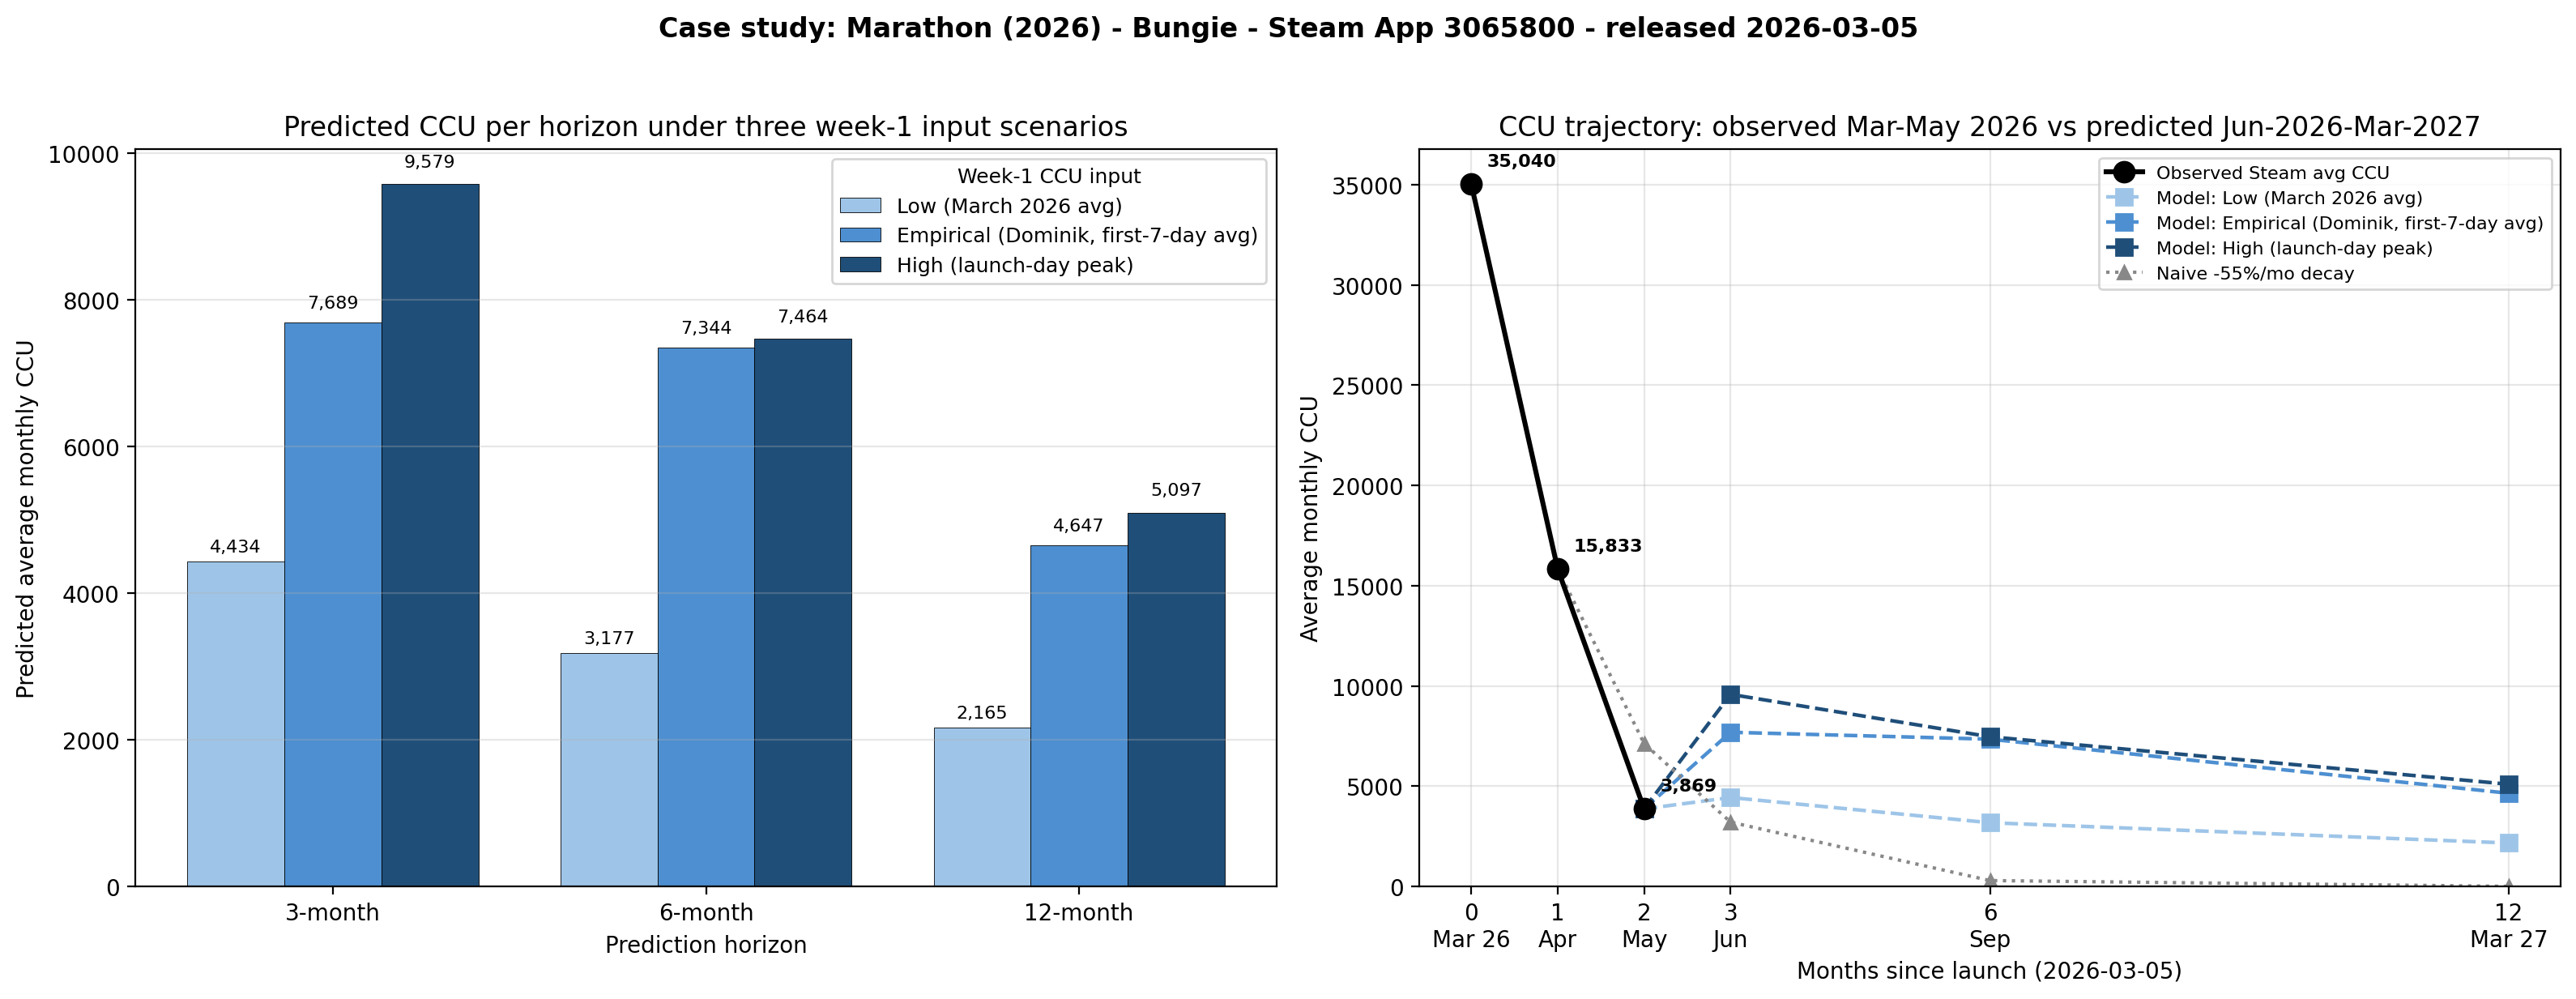
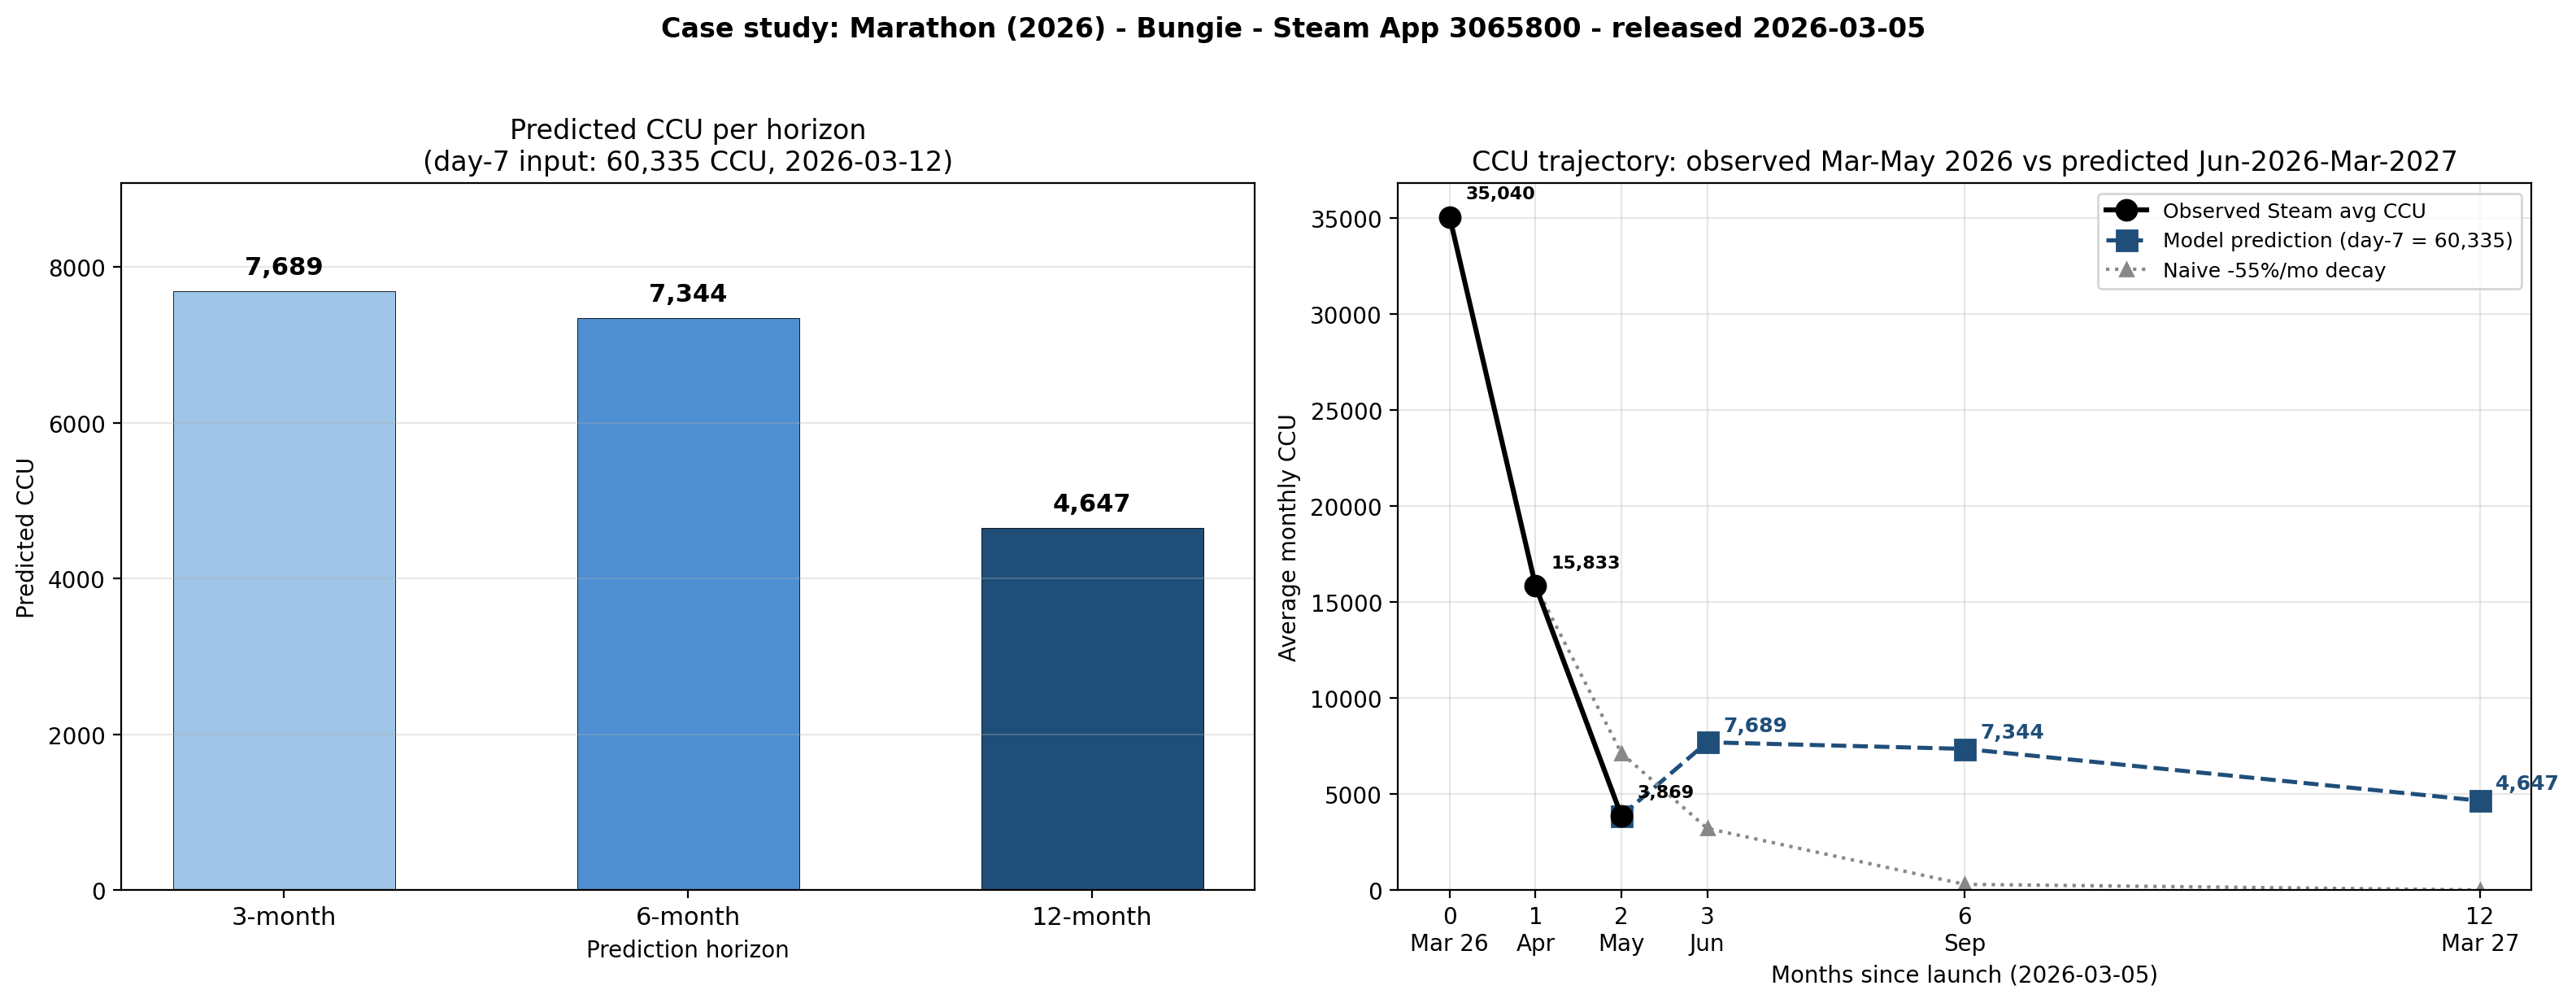
refactor(marathon): single day-7 input -> three horizon predictions
Per project decision the Marathon case study no longer uses the Low /
Empirical / High sensitivity bracket. The case study now reports a
single week-1 input — the exact value of the players_7days_after_release
column for Marathon (60,335 CCU on 2026-03-12, the second week of March,
seven days after the 2026-03-05 launch) — and three horizon predictions
at 3, 6 and 12 months.

Changes:
  - predict_marathon.py: removed LOW_WEEK1 / HIGH_WEEK1 constants and
    the scenarios list. main() now trains GBR per horizon and predicts
    once per horizon using the single day-7 input from the CSV.
  - render_figure: simplified to single-input layout. Left panel: three
    bars (one per horizon) labelled with the prediction values and the
    day-7 input date. Right panel: observed Mar-May trajectory + three
    predicted points at month 3/6/12 + naive -55%/mo decay baseline.
  - README.md: removed Low/High scenarios table, added an "Input"
    section describing the single day-7 value.

Headline numbers (day-7 input = 60,335 CCU):
   3-month: 7,689 CCU
   6-month: 7,345 CCU
  12-month: 4,648 CCU

diff --git a/marathon/predict_marathon.py b/marathon/predict_marathon.py
@@ -2,9 +2,12 @@
 predict_marathon.py — Marathon (2026) case study.
 
 Trains the production-equivalent GBR per horizon on Kevin's data, then predicts
-Marathon's average monthly CCU at 3, 6 and 12 months post-launch using the
-feature row produced by Dominik's data pipeline (`marathon_features.csv`,
-semicolon-delimited; sourced 2026-05-12).
+Marathon's CCU at 3, 6 and 12 months post-launch using the single day-7 CCU
+input from the project's data pipeline (`marathon_features.csv`,
+semicolon-delimited; sourced 2026-05-12). The day-7 value (60,335 CCU) is
+the exact concurrent-user count from the `players_7days_after_release`
+column — dated 2026-03-12, the second week of March 2026, seven days after
+the 2026-03-05 launch.
 
 Preprocessing matches `../visualisation/audit_plots.py` exactly:
   - drop rows with missing target
@@ -18,8 +21,8 @@ Usage:
     python predict_marathon.py
 
 Output:
-    figures/07_marathon_case_study.png    (1x2 panel)
-    stdout: scenario × horizon prediction table
+    figures/07_marathon_case_study.png    (1x2 panel: bars + trajectory)
+    stdout: per-horizon prediction table
 """
 
 from __future__ import annotations
@@ -61,13 +64,10 @@ MARATHON_OBSERVED = [
     (2, 3869, "May 2026"),
 ]
 
-# Three week-1 input scenarios. Empirical = Dominik's pipeline output, the
-# headline value for the report. Low and High retain the sensitivity context:
-# Low = March 2026 monthly average (biased downward by post-peak decay);
-# High = launch-day peak from Steam launch records (2026-03-08).
-EMPIRICAL_WEEK1 = 60335  # overridden by Dominik's CSV at runtime; kept for fallback
-LOW_WEEK1 = 35040
-HIGH_WEEK1 = 77358
+# Single week-1 input: the exact day-7 CCU value from the project's data
+# pipeline. The CSV (`marathon_features.csv`) provides this at runtime; the
+# constant below is kept only as a fallback if the CSV is missing the column.
+EMPIRICAL_WEEK1 = 60335  # day-7 CCU snapshot on 2026-03-12 (week 2 of March)
 
 
 # === DATA LOADING ===
@@ -136,38 +136,38 @@ def predict_marathon(gbr: GradientBoostingRegressor, feat_names: list[str],
 # === FIGURE ===
 
 def render_figure(predictions: dict, marathon: pd.Series, empirical_week1: float) -> Path:
-    """1x2 figure mirroring the layout established in audit_plots.py figure_7."""
+    """1x2 figure: single day-7 input -> three horizon predictions.
+
+    Left panel:  predicted CCU bars at 3, 6, 12 months for the single day-7
+                 input (60,335 CCU from the data pipeline, dated 2026-03-12).
+    Right panel: observed Steam trajectory (Mar-May 2026) plus the three
+                 predicted points (Jun 2026 / Sep 2026 / Mar 2027) plus a
+                 naive -55%/mo decay baseline anchored on April.
+    """
     horizons = ["3m", "6m", "12m"]
-    scenarios = [
-        ("Low (March 2026 avg)", LOW_WEEK1),
-        (f"Empirical (Dominik, first-7-day avg)", int(empirical_week1)),
-        ("High (launch-day peak)", HIGH_WEEK1),
-    ]
-    scenario_labels = [s[0] for s in scenarios]
+    label = "Empirical (pipeline)"
 
     fig, axes = plt.subplots(1, 2, figsize=(16, 6))
-    colors = ["#9ec5e8", "#4d8fd1", "#1f4e79"]  # graded blue: Low / Mid / High
+    bar_colors = ["#9ec5e8", "#4d8fd1", "#1f4e79"]  # graded blue across horizons
 
-    # --- LEFT: predicted CCU bars per horizon, three scenarios ---
-    x = np.arange(len(horizons))
-    width = 0.26
+    # --- LEFT: predicted CCU bars at the 3 horizons (single day-7 input) ---
     ax = axes[0]
-    for i, label in enumerate(scenario_labels):
-        vals = [predictions[(h, label)] for h in horizons]
-        bars = ax.bar(x + (i - 1) * width, vals, width, color=colors[i],
-                      edgecolor="k", linewidth=0.3, label=label)
-        for bar, v in zip(bars, vals):
-            ax.text(bar.get_x() + bar.get_width() / 2, v + max(vals) * 0.02,
-                    f"{int(v):,}", ha="center", va="bottom", fontsize=8)
+    x = np.arange(len(horizons))
+    vals = [predictions[(h, label)] for h in horizons]
+    bars = ax.bar(x, vals, width=0.55, color=bar_colors,
+                  edgecolor="k", linewidth=0.3)
+    for bar, v in zip(bars, vals):
+        ax.text(bar.get_x() + bar.get_width() / 2, v + max(vals) * 0.02,
+                f"{int(v):,}", ha="center", va="bottom", fontsize=11, fontweight="bold")
     ax.set_xticks(x)
-    ax.set_xticklabels(["3-month", "6-month", "12-month"])
+    ax.set_xticklabels(["3-month", "6-month", "12-month"], fontsize=11)
     ax.set_xlabel("Prediction horizon")
-    ax.set_ylabel("Predicted average monthly CCU")
-    ax.set_title("Predicted CCU per horizon under three week-1 input scenarios")
-    ax.legend(title="Week-1 CCU input", fontsize=9, title_fontsize=9, loc="upper right")
+    ax.set_ylabel("Predicted CCU")
+    ax.set_title(f"Predicted CCU per horizon\n(day-7 input: {int(empirical_week1):,} CCU, 2026-03-12)")
     ax.grid(True, axis="y", alpha=0.3)
+    ax.set_ylim(0, max(vals) * 1.18)
 
-    # --- RIGHT: observed trajectory + predicted bands + naive baseline ---
+    # --- RIGHT: observed trajectory + 3 predicted points + naive baseline ---
     ax = axes[1]
     obs_x = [t[0] for t in MARATHON_OBSERVED]
     obs_y = [t[1] for t in MARATHON_OBSERVED]
@@ -178,12 +178,15 @@ def render_figure(predictions: dict, marathon: pd.Series, empirical_week1: float
                     xytext=(7, 8), fontsize=8, fontweight="bold")
 
     pred_months = [3, 6, 12]
-    for i, label in enumerate(scenario_labels):
-        pred_y = [predictions[(f"{m}m", label)] for m in pred_months]
-        connect_x = [obs_x[-1]] + pred_months
-        connect_y = [obs_y[-1]] + pred_y
-        ax.plot(connect_x, connect_y, "--", color=colors[i], linewidth=1.6,
-                marker="s", markersize=7, label=f"Model: {label}")
+    pred_y = [predictions[(f"{m}m", label)] for m in pred_months]
+    connect_x = [obs_x[-1]] + pred_months
+    connect_y = [obs_y[-1]] + pred_y
+    ax.plot(connect_x, connect_y, "--", color="#1f4e79", linewidth=1.8,
+            marker="s", markersize=9,
+            label=f"Model prediction (day-7 = {int(empirical_week1):,})")
+    for m, y_val in zip(pred_months, pred_y):
+        ax.annotate(f"{int(y_val):,}", (m, y_val), textcoords="offset points",
+                    xytext=(7, 5), fontsize=9, color="#1f4e79", fontweight="bold")
 
     # Naive -55%/mo decay anchored on April 2026 (the last full month of decay).
     naive_x = [1, 2, 3, 6, 12]
@@ -199,7 +202,7 @@ def render_figure(predictions: dict, marathon: pd.Series, empirical_week1: float
     ax.set_xlabel("Months since launch (2026-03-05)")
     ax.set_ylabel("Average monthly CCU")
     ax.set_title("CCU trajectory: observed Mar-May 2026 vs predicted Jun-2026-Mar-2027")
-    ax.legend(fontsize=8, loc="upper right")
+    ax.legend(fontsize=9, loc="upper right")
     ax.grid(True, alpha=0.3)
     ax.set_ylim(bottom=0)
 
@@ -220,7 +223,7 @@ def main() -> int:
     marathon = load_marathon_features()
     empirical_week1 = float(marathon[WEEK1_COL])
 
-    print("=== Marathon feature snapshot (from Dominik's pipeline) ===")
+    print("=== Marathon feature snapshot (from data pipeline) ===")
     for key in [
         "app_id", "name", "type", "players_7days_after_release",
         "early_reviews_total", "early_reviews_positive", "early_reviews_negative",
@@ -230,31 +233,27 @@ def main() -> int:
         val = marathon.get(key, "(absent)")
         print(f"  {key}: {val}")
 
-    scenarios = [
-        ("Low (March 2026 avg)", LOW_WEEK1),
-        (f"Empirical (Dominik, first-7-day avg)", int(empirical_week1)),
-        ("High (launch-day peak)", HIGH_WEEK1),
-    ]
-
-    print("\n=== Predictions per horizon x scenario (raw CCU, back-transformed from log) ===")
+    label = "Empirical (pipeline)"
+    print(f"\n=== Predicting at 3 horizons from single day-7 input ({int(empirical_week1):,} CCU, 2026-03-12) ===")
     predictions: dict[tuple[str, str], float] = {}
     for h in HORIZONS:
         print(f"  training GBR for {h} horizon ...")
         gbr, feat_names = train_horizon_gbr(h)
-        for label, week1 in scenarios:
-            predictions[(h, label)] = predict_marathon(gbr, feat_names, marathon, float(week1))
-            print(f"  {h:>3} | {label:<42} (week1={week1:>6,}) -> {predictions[(h, label)]:>9,.0f} CCU")
+        predictions[(h, label)] = predict_marathon(gbr, feat_names, marathon, float(empirical_week1))
+        print(f"  {h:>3} -> {predictions[(h, label)]:>9,.0f} CCU")
 
     out = render_figure(predictions, marathon, empirical_week1)
     print(f"\n=== Figure rendered: {out} ===")
 
-    # Also print absolute numbers in markdown-friendly form for pasting into Overleaf prose
+    # Paste-friendly summary for §6.5 Marathon prose
+    p3 = predictions[("3m", label)]
+    p6 = predictions[("6m", label)]
+    p12 = predictions[("12m", label)]
     print("\n=== Numbers for report prose (paste-friendly) ===")
-    for h in ["3m", "6m", "12m"]:
-        low = predictions[(h, "Low (March 2026 avg)")]
-        emp = predictions[(h, "Empirical (Dominik, first-7-day avg)")]
-        high = predictions[(h, "High (launch-day peak)")]
-        print(f"  {h}: Low={low:,.0f}  Empirical={emp:,.0f}  High={high:,.0f}  (range {min(low,emp,high):,.0f}-{max(low,emp,high):,.0f})")
+    print(f"  day-7 input: {int(empirical_week1):,} CCU (2026-03-12, week 2 of March 2026)")
+    print(f"  3-month  prediction: {p3:,.0f} CCU")
+    print(f"  6-month  prediction: {p6:,.0f} CCU")
+    print(f"  12-month prediction: {p12:,.0f} CCU")
 
     return 0
 

diff --git a/marathon/README.md b/marathon/README.md
@@ -14,11 +14,11 @@ refreshes the Marathon feature CSV or when Kevin reruns the training data.
 - `predict_marathon.py` — single-file script that loads Kevin's three horizon
   CSVs, trains one GBR per horizon (matching audit-plots preprocessing: 100-player
   cutoff, log1p on player/review columns, mean-impute, 85/15 random split with
-  seed 42), then predicts Marathon's average monthly CCU at 3/6/12-month horizons
-  under three week-1 scenarios (Low / Empirical / High). Renders the report's
-  Figure 7 (1×2 panel) into `figures/`.
-- `marathon_features.csv` — Marathon's first-7-day feature row from Dominik's
-  pipeline (2026-05-12 snapshot, semicolon-delimited, 60 columns, one row).
+  seed 42), then predicts Marathon's CCU at the 3-, 6- and 12-month horizons
+  using a single day-7 input from the project's data pipeline. Renders the
+  report's Figure 7 (1×2 panel) into `figures/`.
+- `marathon_features.csv` — Marathon's day-7 feature row from the project's
+  data pipeline (2026-05-12 snapshot, semicolon-delimited, 60 columns, one row).
 - `requirements.txt` — pinned dependencies (same set as `../visualisation/`).
 - `figures/07_marathon_case_study.png` — rendered figure (200 DPI), shipped
   to the Overleaf project as `Figures/07_marathon_case_study.png`.
@@ -30,19 +30,22 @@ pip install -r requirements.txt
 python predict_marathon.py
 ```
 
-The script prints the Marathon feature snapshot, the 3-horizon × 3-scenario
-prediction grid, and a paste-friendly summary line per horizon that maps onto
-the report's prose in `Text/Machine Learning Prediction.tex`.
+The script prints the Marathon feature snapshot, three predicted-CCU values
+(one per horizon), and a paste-friendly summary that maps onto the §6.5
+prose in `Text/Machine Learning Prediction.tex`.
 
-## Scenarios
+## Input
 
-| Scenario | Week-1 input | Source |
-|---|---|---|
-| Low (March 2026 avg) | 35,040 CCU | SteamCharts monthly average; biased downward by 27 days of post-peak decay |
-| Empirical (Dominik) | 60,335 CCU | Dominik's pipeline output, first-7-day average |
-| High (launch-day peak) | 77,358 CCU | SteamCharts launch-day peak (2026-03-08) |
+There is one week-1 input scenario: the value of the
+`players_7days_after_release` column in `marathon_features.csv`. This is the
+exact concurrent-user count on the seventh day after release — for Marathon
+that date is **2026-03-12** (the second week of March 2026), seven days
+after the 2026-03-05 launch. The pipeline-extracted value is **60,335 CCU**.
 
-The empirical scenario is the headline for the report. Low/High bracket sensitivity.
+The earlier draft used a Low / Empirical / High sensitivity bracket around
+this number (35,040 / 60,335 / 77,358). That bracket has been removed: the
+case study reports the single day-7 input that the model actually consumes,
+not a synthetic range.
 
 ## Why Dominik's feature row, not the hardcoded dict
 